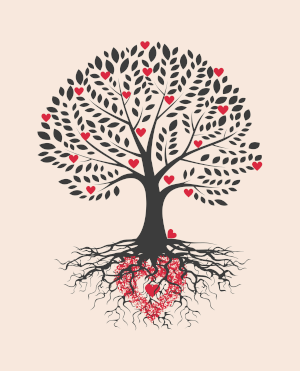
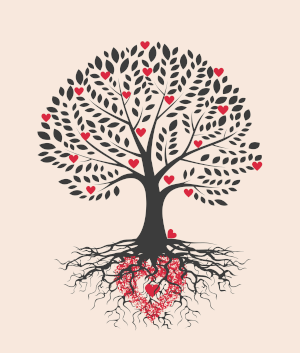
atualização

Changed region(s): [[0.12, 0.0935, 0.9, 0.9348]]

diff --git a/index.html b/index.html
@@ -4,33 +4,33 @@
     <meta charset="UTF-8">
     <meta name="viewport" content="width=device-width, initial-scale=1.0">
     <link rel="stylesheet" href="style.css">
+    <link rel="shortcut icon" href="icon de coração.png" type="image/x-icon">
     <title>pagina</title>
 </head>
 <body>
+
     <h1>imagens românticas</h1>
 
-    <div id="imagens">
-    <img src="imagem 1.jpg" alt="amor">
-    <img src="imagem 2.png" alt="amor">
-    <img src="imagem 3.jpg" alt="amor">
+    <div class="imagens" id="imagem">
+        <div>
+            <img class="imagens" src="imagem 1.jpg" alt="amor" > 
+            <button>baixar</button>
+            <img class="imagens" src="imagem 2.png" alt="amor">
+            <button>baixar</button>
+            <img class="imagens" src="imagem 5.png" alt="amor">
+
+        </div>
+        <div>
+
+            <img class="imagens" src="imagem 3.jpg" alt="amor">
+            <button>baixar</button>
+            <img class="imagens" src="imagem 4.png" alt="amor">
+            <button>baixar</button>
+            <img class="imagens" src="imagem 6.jpg" alt="amor">
+        </div>
     </div>
-
-    <!-- <div id="imagem0">
-    <img src="imagem 0.png" alt="amor">
-    <img src="imagem 0.png" alt="amor">
-    <img src="imagem 0.png" alt="amor"> 
-    </div> -->
-
-     <!-- <div id="imagem00">
-    <img src="imagem 0.png" alt="amor">
-    <img src="imagem 0.png" alt="amor">
-    <img src="imagem 0.png" alt="amor"> 
-    </div> -->
-
     
 
-    
-    
     <script src="script.js"></script>
 </body>
 </html>

diff --git a/style.css b/style.css
@@ -1,8 +1,8 @@
  * {
-            margin: 0;
-            padding: 0;
-            box-sizing: border-box;
-            font-family: cursive;
+  margin: 0;
+  padding: 0;
+  box-sizing: border-box;
+  font-family: cursive;
  }
 
 body{
@@ -17,26 +17,24 @@ body{
    text-align: center;          
    }
    
-   /* #imagem0{
-   display: grid;
-   margin-top: -1020px;
-   }
-
-   #imagem00{
-   display: grid;
-   justify-self: right;
-   margin-top:  -330px;
-   }
- */
-
-   #imagens{
+   /* #imagens{
    justify-self: center;
-   display: grid;
+   display: flex;
+   } */
+   
+   img{
+   padding: 5px;
    
    }
 
-   img{
-   padding: 5px;
+   .imagens:hover{
+    scale: 1.005;
+   }
+
+   .imagens{
+   justify-self: center;
+   display: flex;
+   flex-wrap: wrap;
    }
 
 
